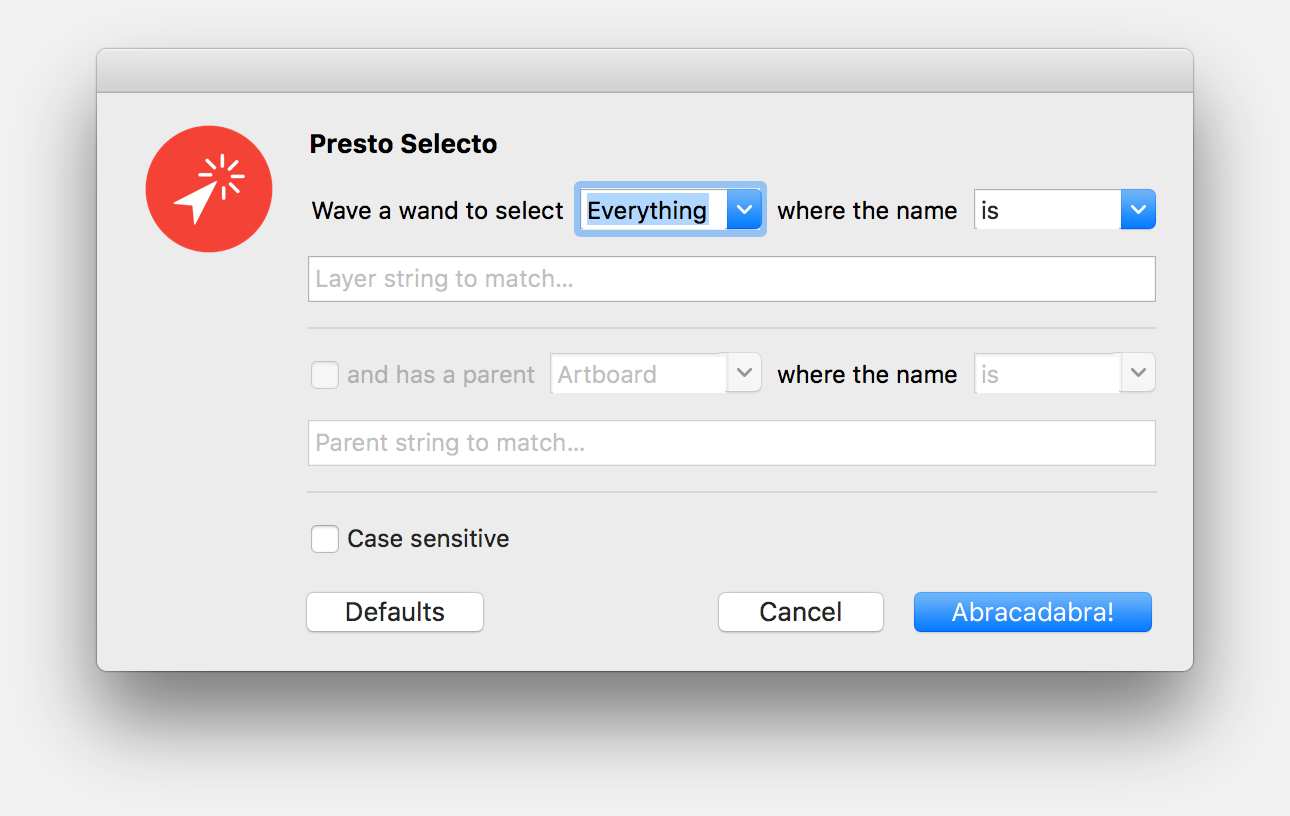
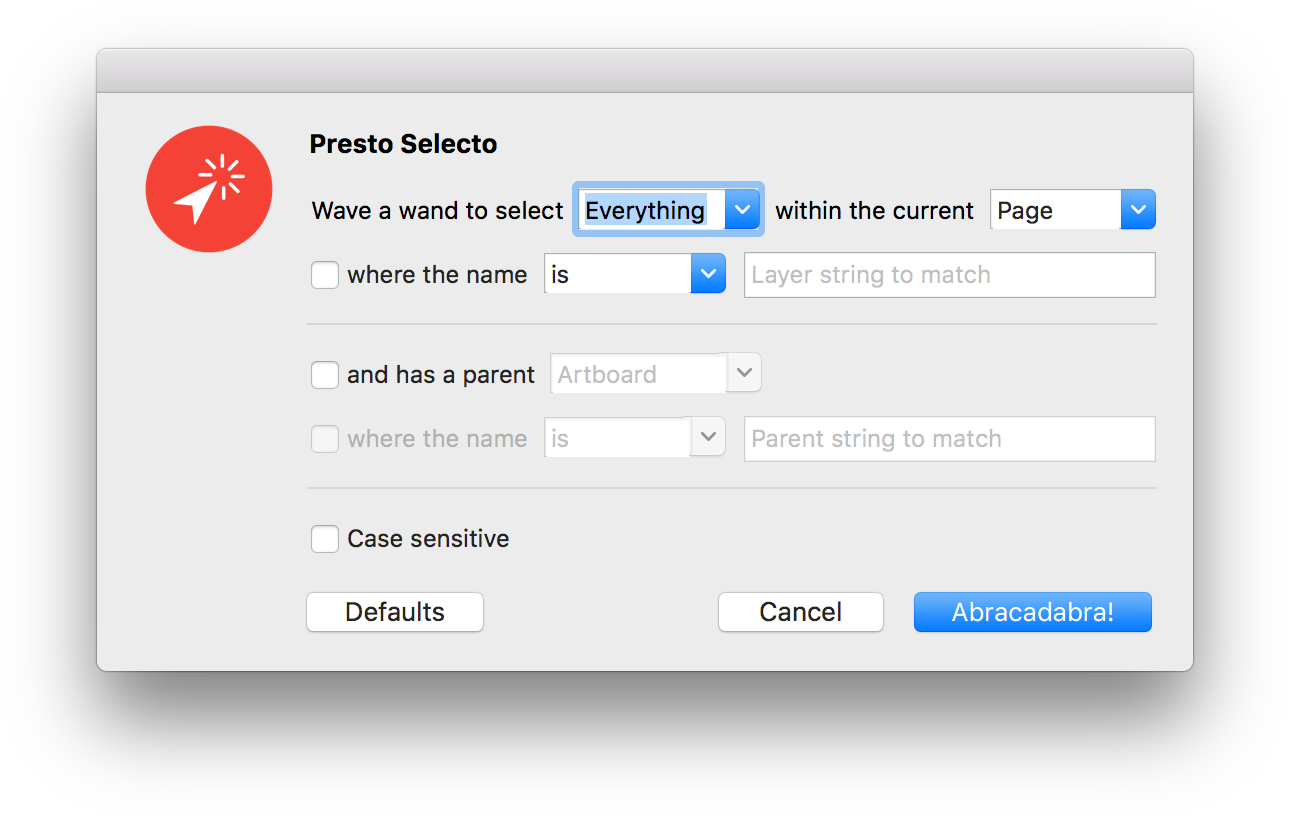
Matching strings is now optional, meaning you can simply select layers of a type within a parent of a type. Fixed appcast.xml issue.

diff --git a/README.md b/README.md
@@ -25,7 +25,7 @@ Quickly select all layers of a type, whose name matches or contains a given stri
 ## Automatic
 Search for Presto Selecto in [Sketchrunner](http://sketchrunner.com/), [Sketchpacks](https://sketchpacks.com/), or [Sketch Toolbox](http://sketchtoolbox.com/) if you have one of those installed.
 
-Once installed, Sketch will automatically notify you when an update is available (version 0.1 and later).
+Once installed, Sketch will automatically notify you when an update is available (version 0.4 and later).
 
 ## Manual
 
@@ -39,6 +39,7 @@ To find your plugins directory...
 
 # Changelog
 
+* **0.4** - Matching strings is now optional, meaning you can simply select layers of a type within a parent of a type. Fixed appcast.xml issue.
 * **0.3** - Matching against Everything now allows for a parent, a parent can now also be a group, and added the ability to search for shapes.
 * **0.2** - Verbiage improvements.
 * **0.1** - Initial commit.
